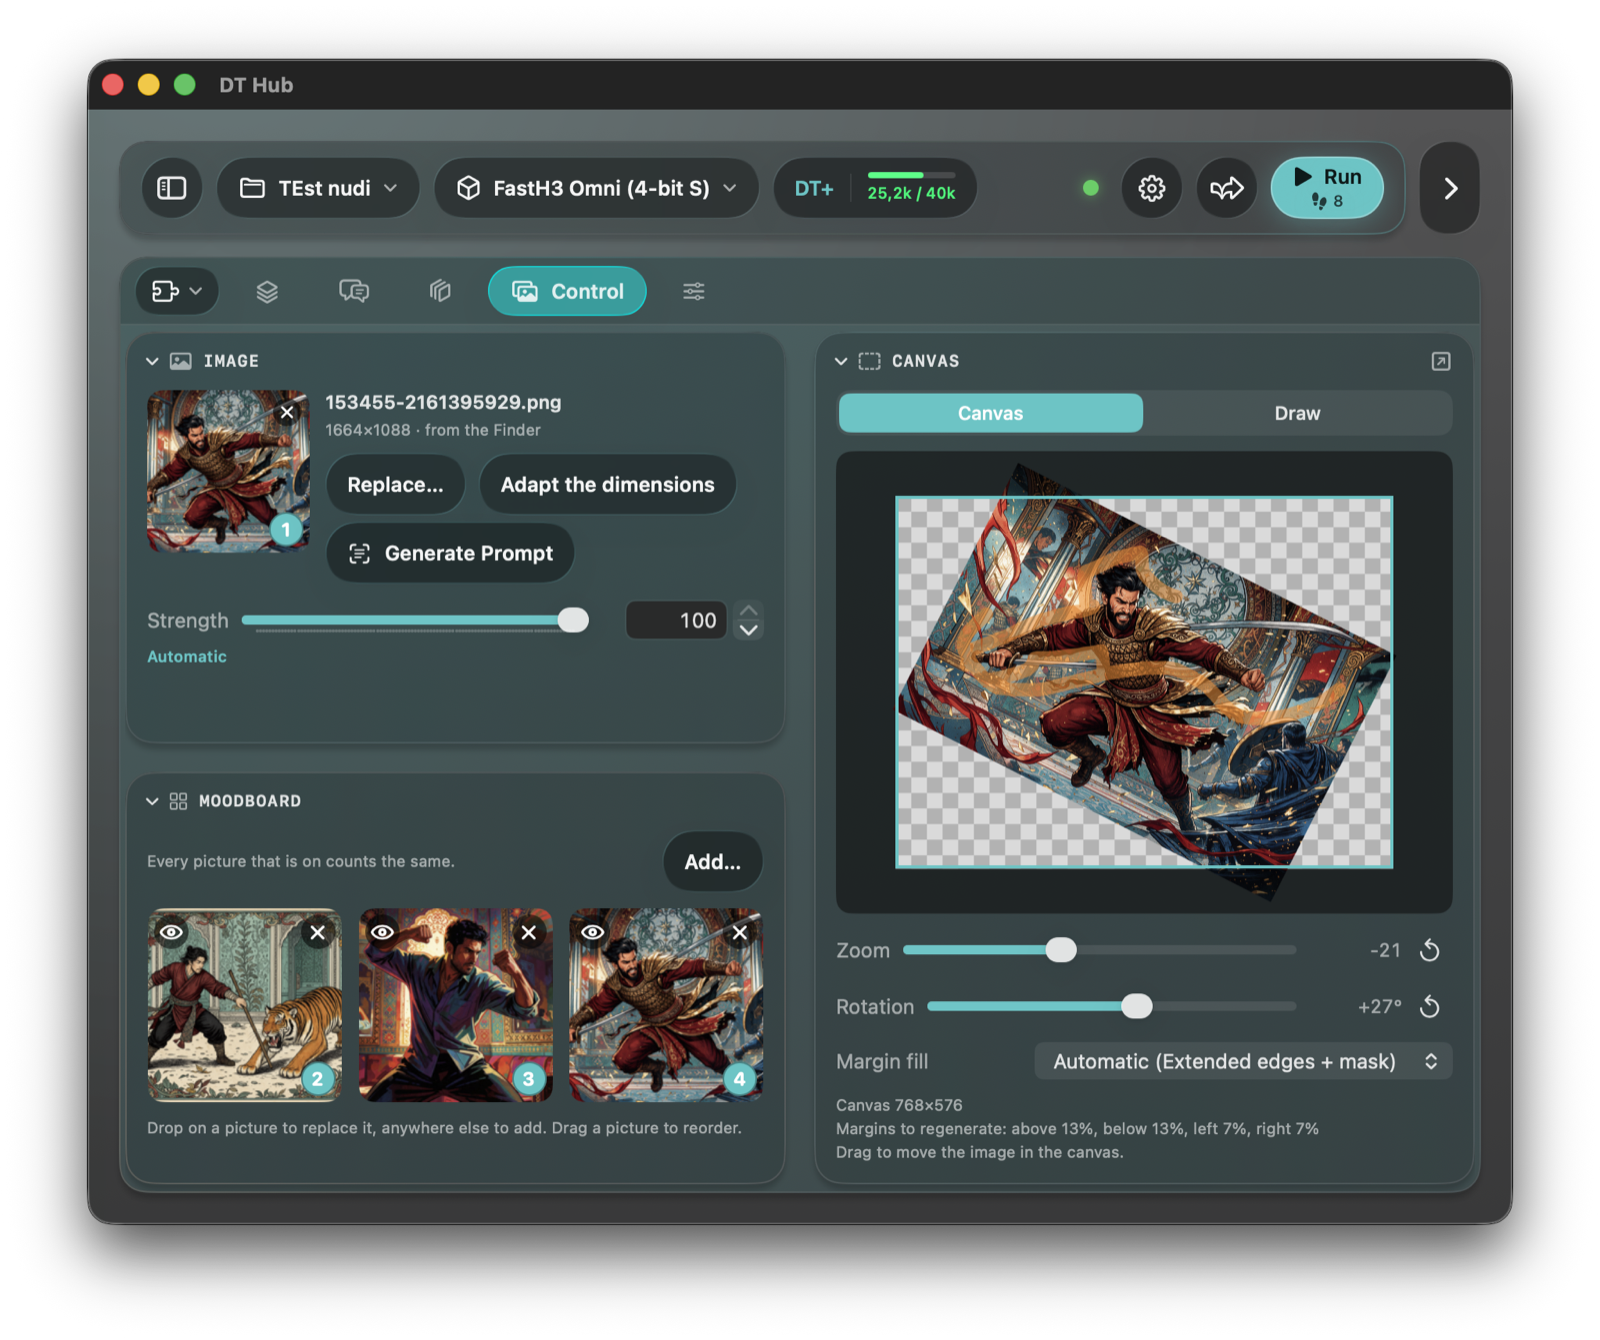
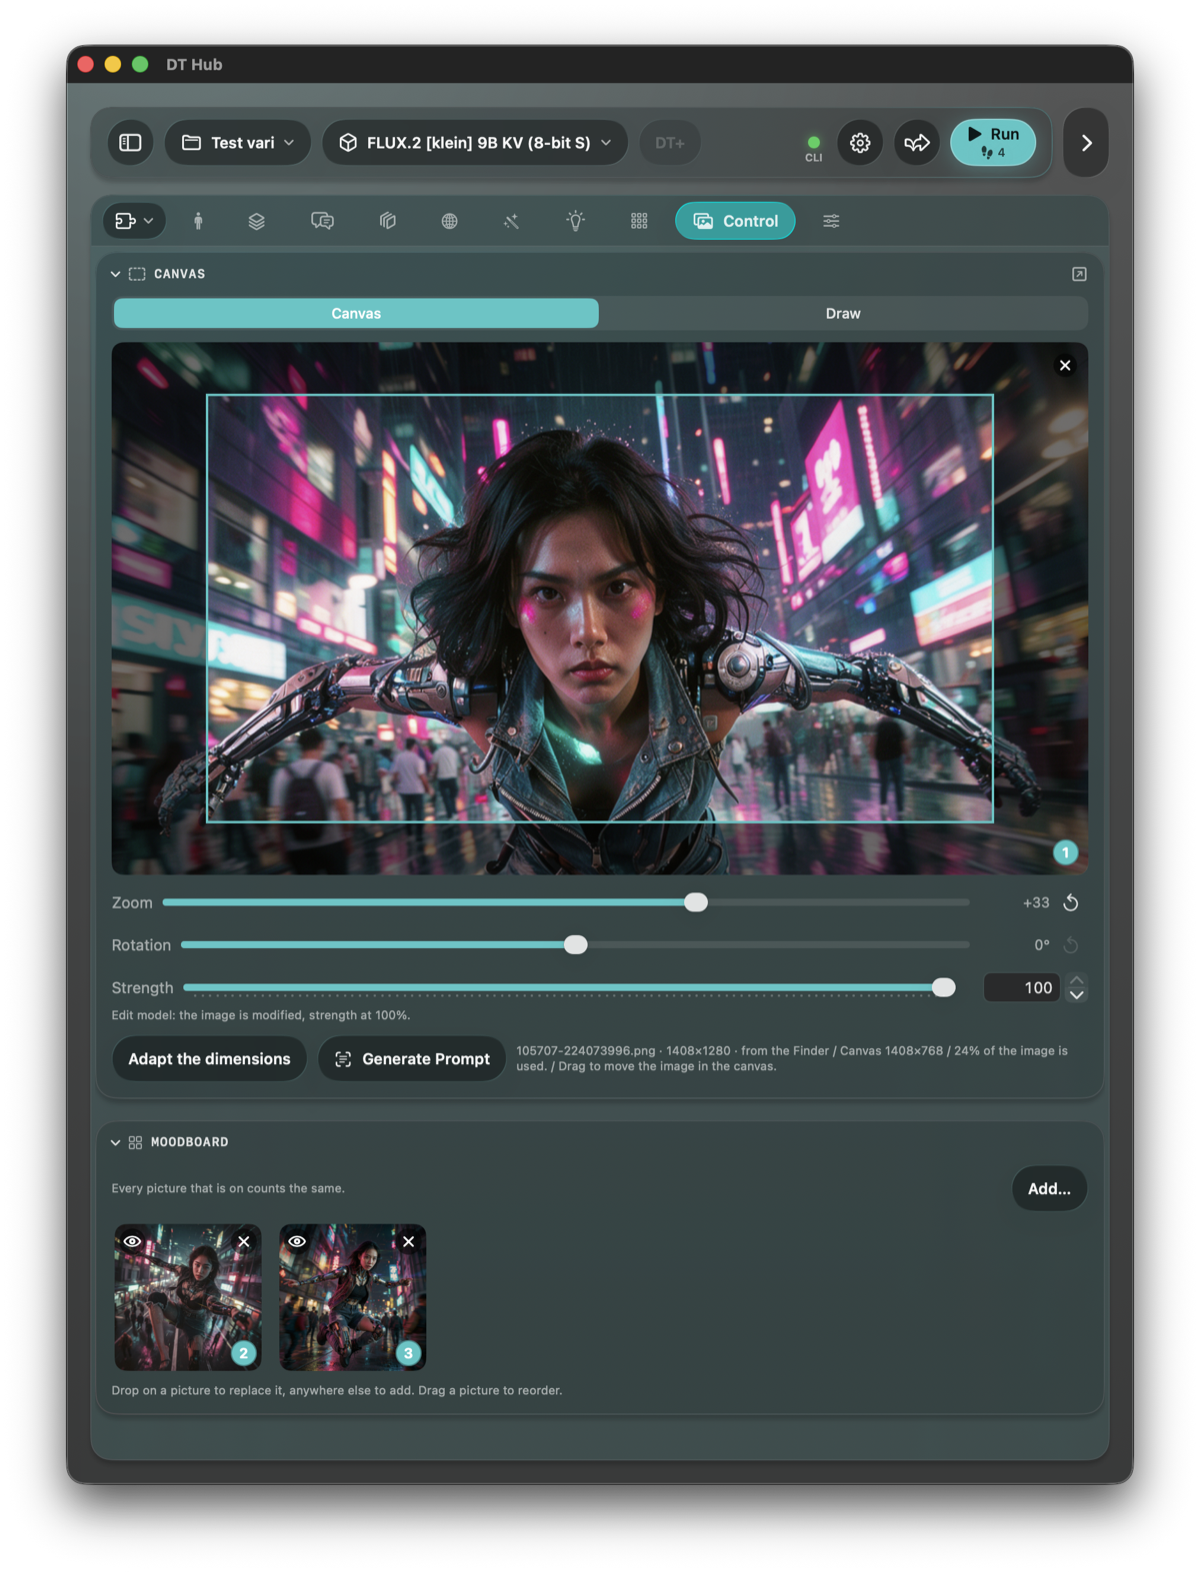
README: nuovi screenshot (Control, Generazione, ServerCLI, configurazione guidata)

diff --git a/README.md b/README.md
@@ -36,9 +36,13 @@ This is an independent community project, not affiliated with or endorsed by Dra
 
 ## A look around
 
-**Generation.** The prompt (with the negative prompt, shown only for the families that use it) and collapsible cards for dimensions, sampling, seed and batch, LoRAs and an advanced section. Every value can be typed or stepped, the open or closed state of each card is remembered, and a JSON editor shows and edits the whole configuration.
+**Generation.** The prompt (with the negative prompt, shown only for the families that use it) and collapsible cards for dimensions, sampling, seed and batch, LoRAs and an advanced section; with an edit model an **Input** card under the prompt shows the Canvas and Moodboard pictures of the Control tab. Every value can be typed or stepped, the open or closed state of each card is remembered, and a JSON editor shows and edits the whole configuration.
 
-<p align="center"><img src="docs/images/generation.png" alt="The Generation tab" width="55%"></p>
+<p align="center"><img src="docs/images/generation.png" alt="The Generation tab, with the Input card of an edit model" width="55%"></p>
+
+**Guided setup.** The first time DT Hub opens, a short guided setup takes you through the server (the Draw Things app, the `gRPCServerCLI`, or both), the output folder and an optional language model. **Help › Guided Setup…** opens it again.
+
+<p align="center"><img src="docs/images/guided-setup.png" alt="The guided setup: the server step" width="55%"></p>
 
 <p align="center">
   <img src="docs/images/lora-manager.png" alt="Manage LoRAs" width="32%">
